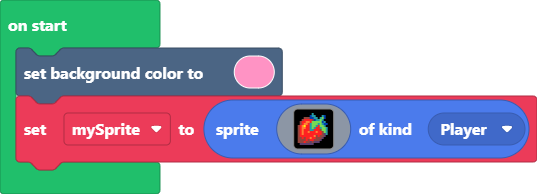
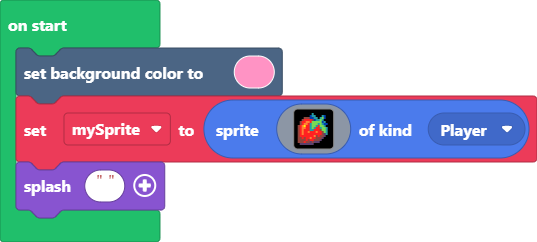
Update main.blocks, main.ts

diff --git a/main.ts b/main.ts
@@ -17,3 +17,4 @@ let mySprite = sprites.create(img`
     e e e 2 e e c e c c c . . . . . 
     . c c c c c c c . . . . . . . . 
     `, SpriteKind.Player)
+game.splash("")
